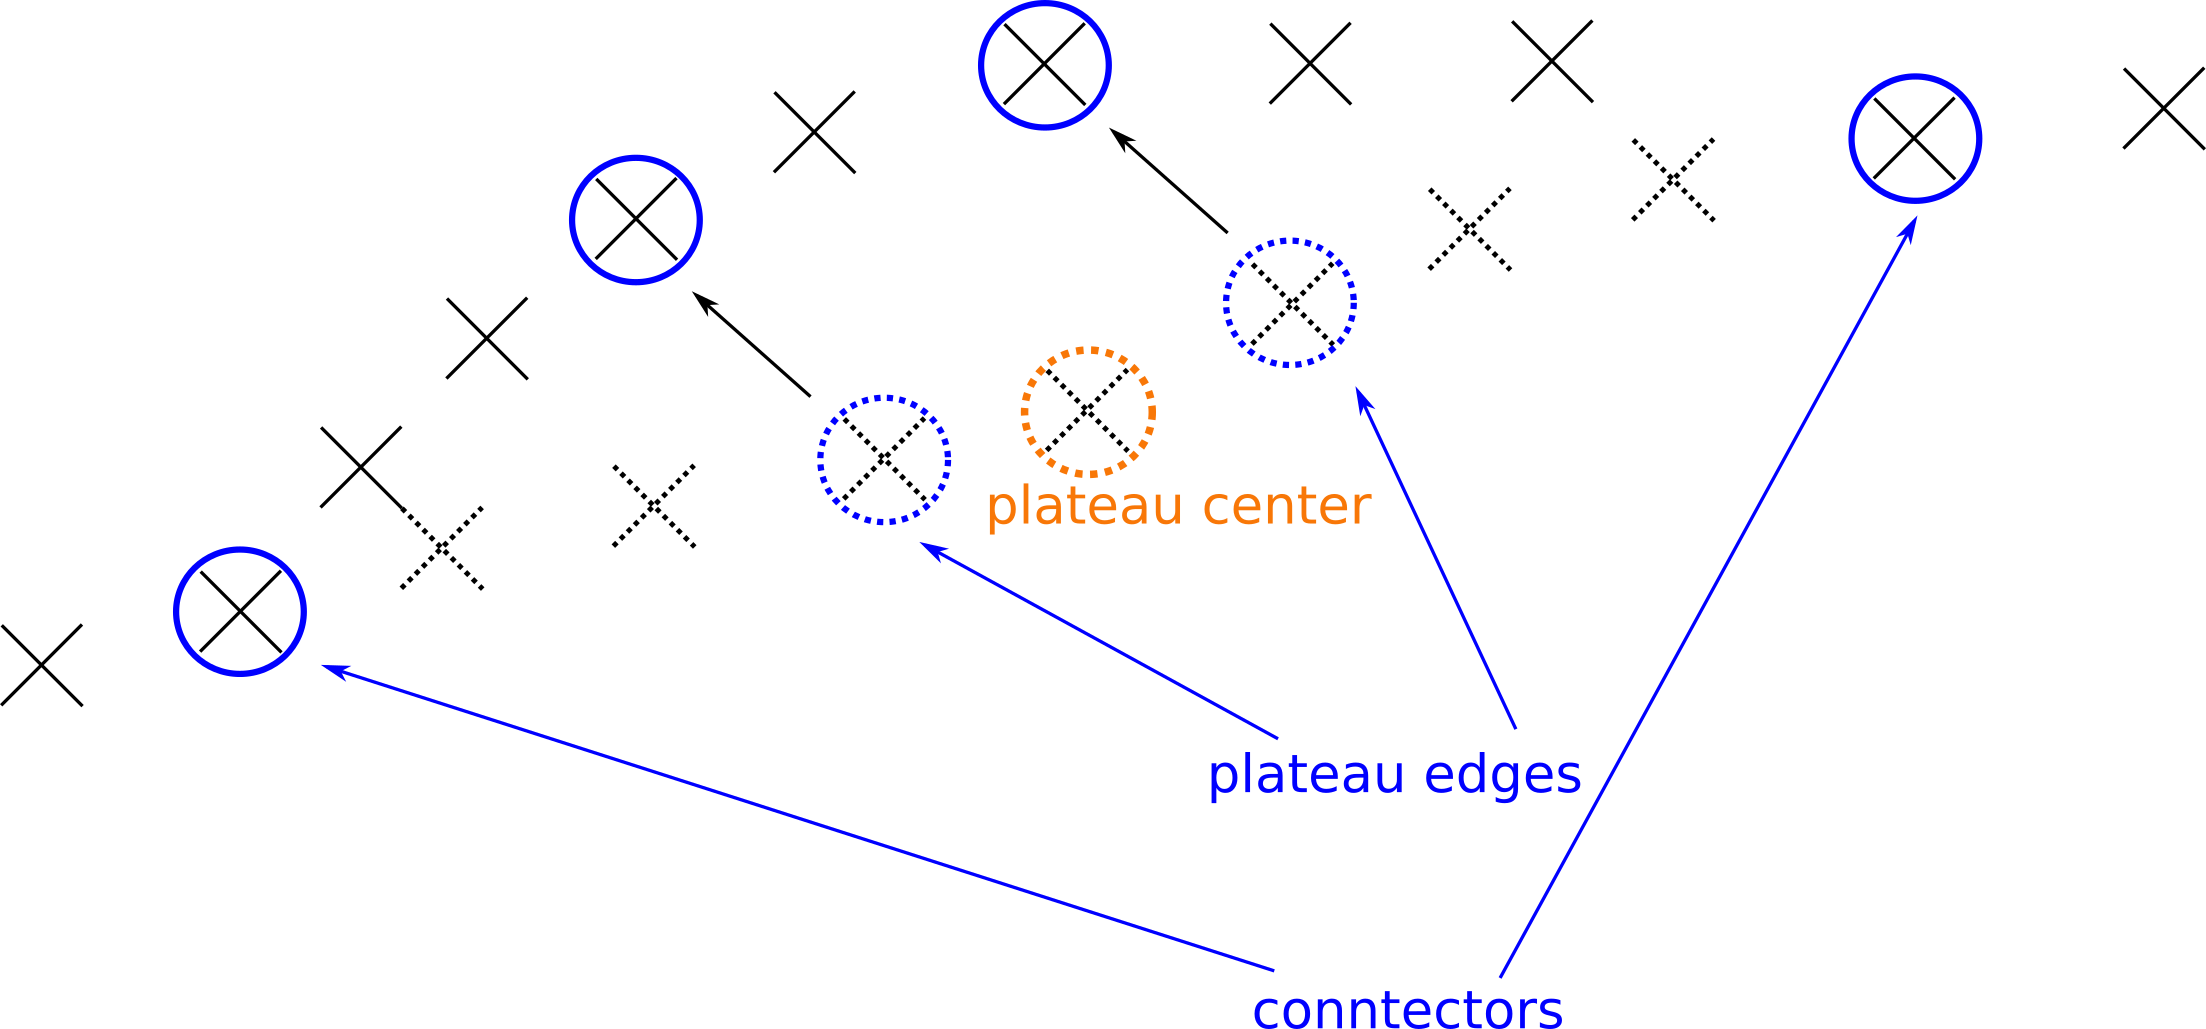
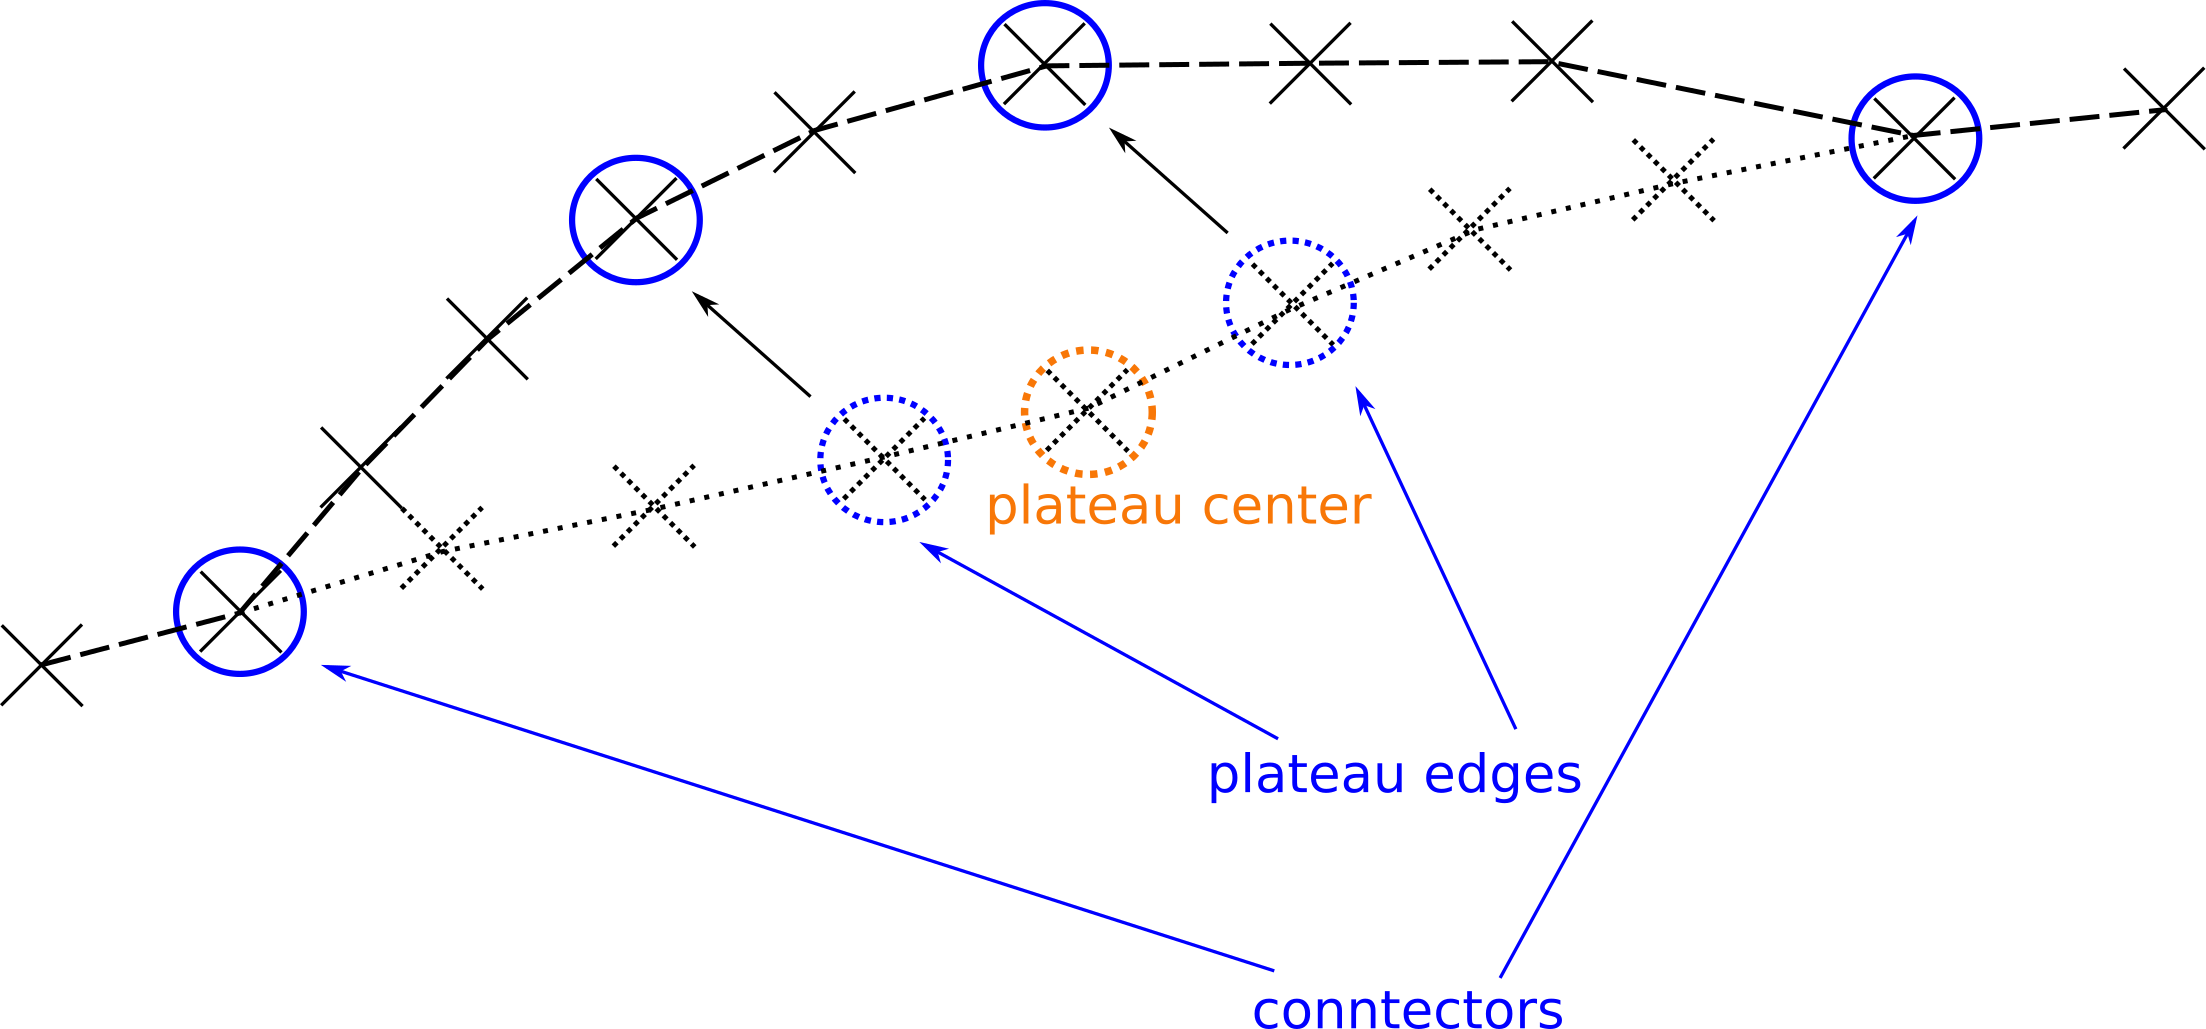
docu: refine description on random-plateau mutation

diff --git a/docs/source/algorithms/genetic.rst b/docs/source/algorithms/genetic.rst
@@ -27,6 +27,7 @@ The genetic algorithm follows these steps (a, b):
 
    a. Repair
    b. Remove Duplicates
+
 3. Fitness Evaluation
 
 
@@ -53,7 +54,7 @@ References.
 ..
 
 1. Initial Population Generation
-^^^^^^^^^^^^^^^^^^^^^^^^^^^^^
+^^^^^^^^^^^^^^^^^^^^^^^^^^^^^^^^
 
    The Initial Population critically influences the performance of the
    genetic algorithm. In general, the more diverse the population, the
@@ -102,7 +103,7 @@ References.
 ..
 
 2. Reproduction
-^^^^^^^^^^^^
+^^^^^^^^^^^^^^^
 
 a. Selection
 
@@ -178,16 +179,15 @@ c. Mutation
 
    *Random Plateau Mutation*
 
-      This method is based on the Random Walk Mutation. A set of four waypoints is selected:
+      A set of four waypoints is selected:
 
         - a *plateau center* that is chosen on a random basis,
-        - the *plateau edges* which is are the waypoints ``plateau_size``/2 waypoints before and behind the plateau center,
+        - two *plateau edges* which are the waypoints ``plateau_size``/2 waypoints before and behind the plateau center,
         - two *connectors* which are the waypoints ``plateau_slope`` before and behind the plateau edges.
-      The plateau edges are moved in the same direction to one of their N-4 neighbourhood positions. A *plateau* is
-      drawn by connecting the following waypoints by a great circle route
-        - the first connector to the mutated original waypoint,
-        - the mutated original waypoint and the mutated waypoint partner,
-        - the mutated waypoint partner and the second connector.
+
+      The plateau edges are moved in the same direction to one of their N-4 neighbourhood positions as for random-walk
+      mutation. A *plateau* is drawn by connecting the plateau edges to the connectors and to each other via great circle
+      routes.
       Selected by ``GENETIC_MUTATION_TYPE=rndm_plateau``.
 
       .. figure:: /_static/algorithm_genetic/random_plateau_mutation.png
@@ -206,7 +206,7 @@ c. Mutation
 ..
 
 3. Post-processing
-^^^^^^^^^^^^^^^
+^^^^^^^^^^^^^^^^^^
 
 a. Repair
 
@@ -252,7 +252,7 @@ b. Duplicates Removal
 ..
 
 4. Fitness Evaluation
-^^^^^^^^^^^^^^^^^^
+^^^^^^^^^^^^^^^^^^^^^
 
    **RoutingProblem** is Weather Routing Tool’s implementation of the
    route optimization problem necessary for defining the evaluation
